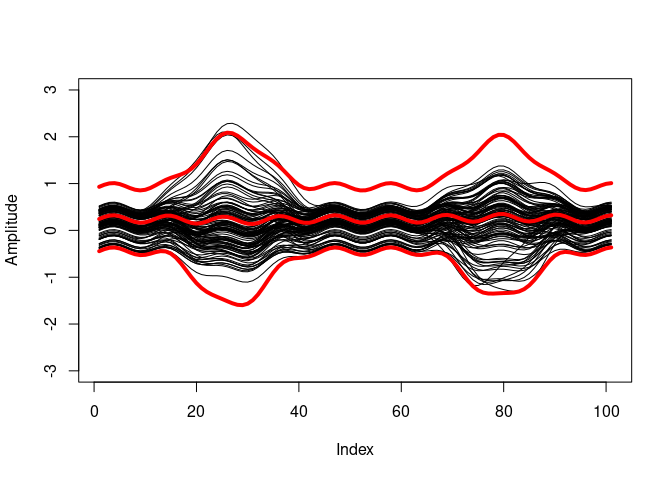
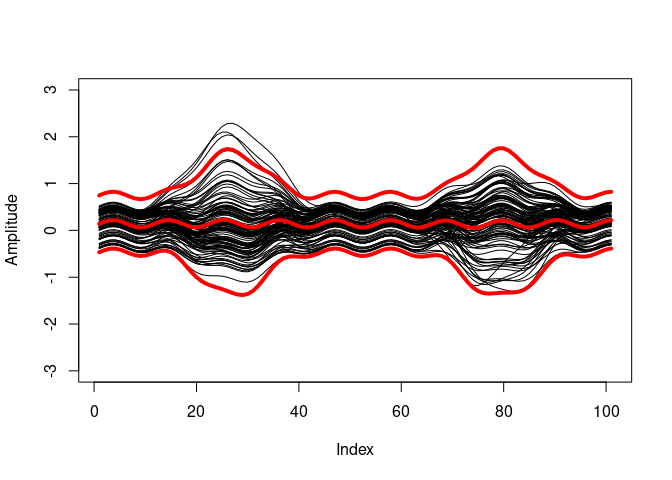
Changed README file

diff --git a/README.md b/README.md
@@ -4,8 +4,9 @@
 <!-- badges: start -->
 <!-- badges: end -->
 
-Compute statistical bands from curve data using a functional approach
-and bootstrapping.
+The `FunBootBand` library contains one function `band()`, which
+generates statistical (prediction or confidence) bands from curve data
+using a functional approach and bootstrapping.
 
 At its core, this is an implementation of the method developed by
 Sutherland et al. (1988) and Olshen et al. (1989), described in detail
@@ -14,7 +15,7 @@ program by Doris Oriwol and later translated into R and extended with an
 approach to handle hierarchical data (see also
 <https://github.com/koda86/floa>).
 
-More details can be found in this publication (and the vignette):
+For more theoretical background, see this publication:
 
 Koska, D., Oriwol, D., & Maiwald, C. (2023). Comparison of statistical
 models for characterizing continuous differences between two
@@ -62,7 +63,7 @@ prediction.band <- band(data,
 rownames(prediction.band)
 #> [1] "upper" "mean"  "lower"
 str(prediction.band)
-#>  num [1:3, 1:101] 0.931 0.244 -0.444 0.975 0.287 ...
+#>  num [1:3, 1:101] 0.747 0.14 -0.467 0.791 0.184 ...
 #>  - attr(*, "dimnames")=List of 2
 #>   ..$ : chr [1:3] "upper" "mean" "lower"
 #>   ..$ : NULL
